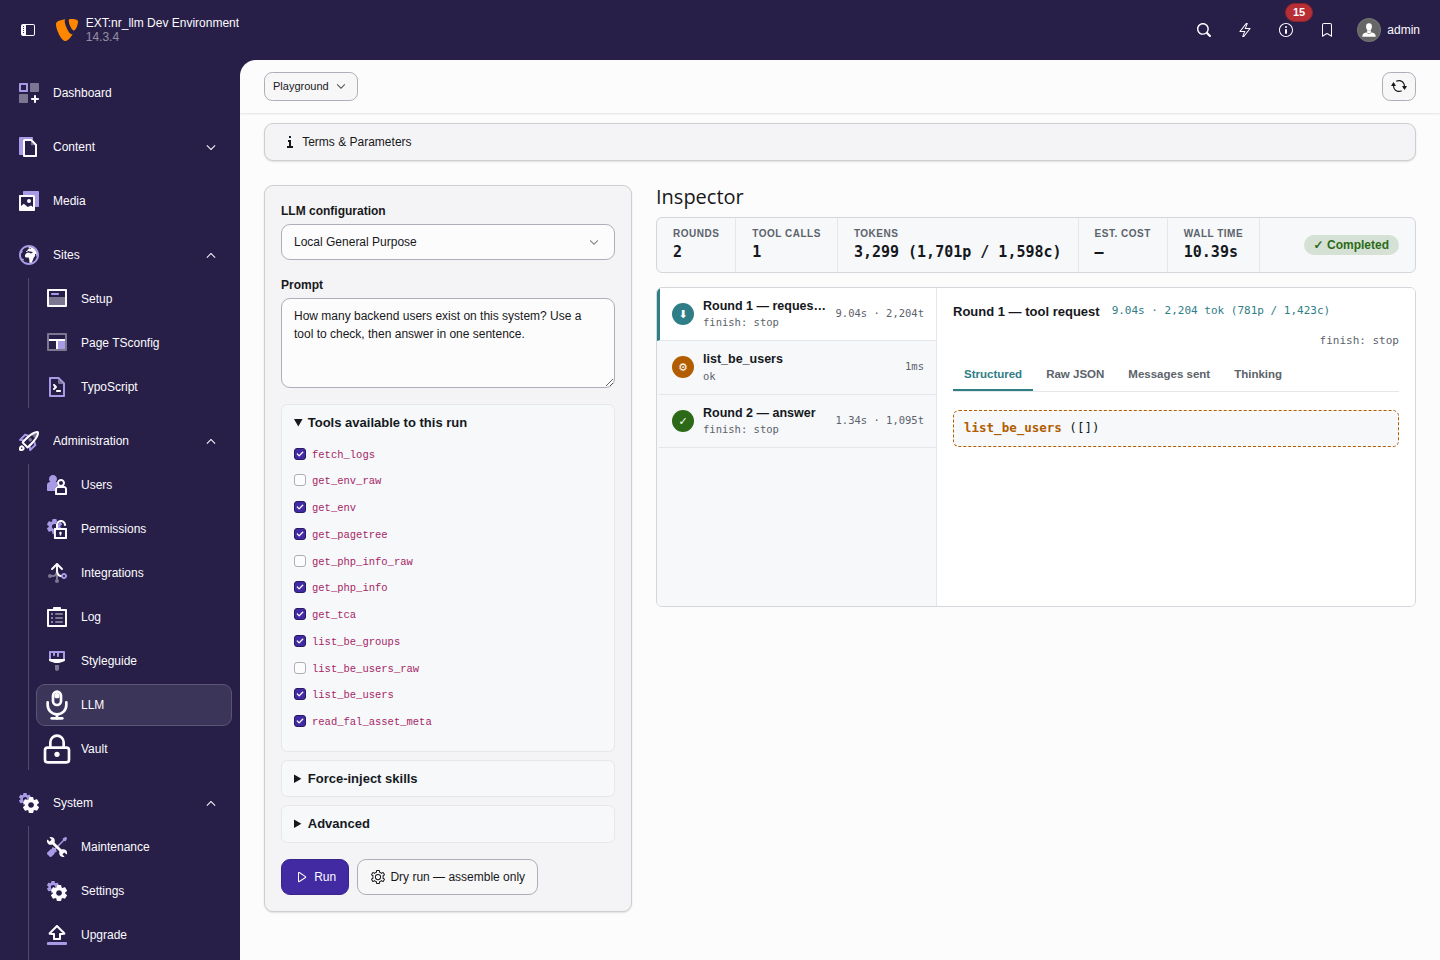
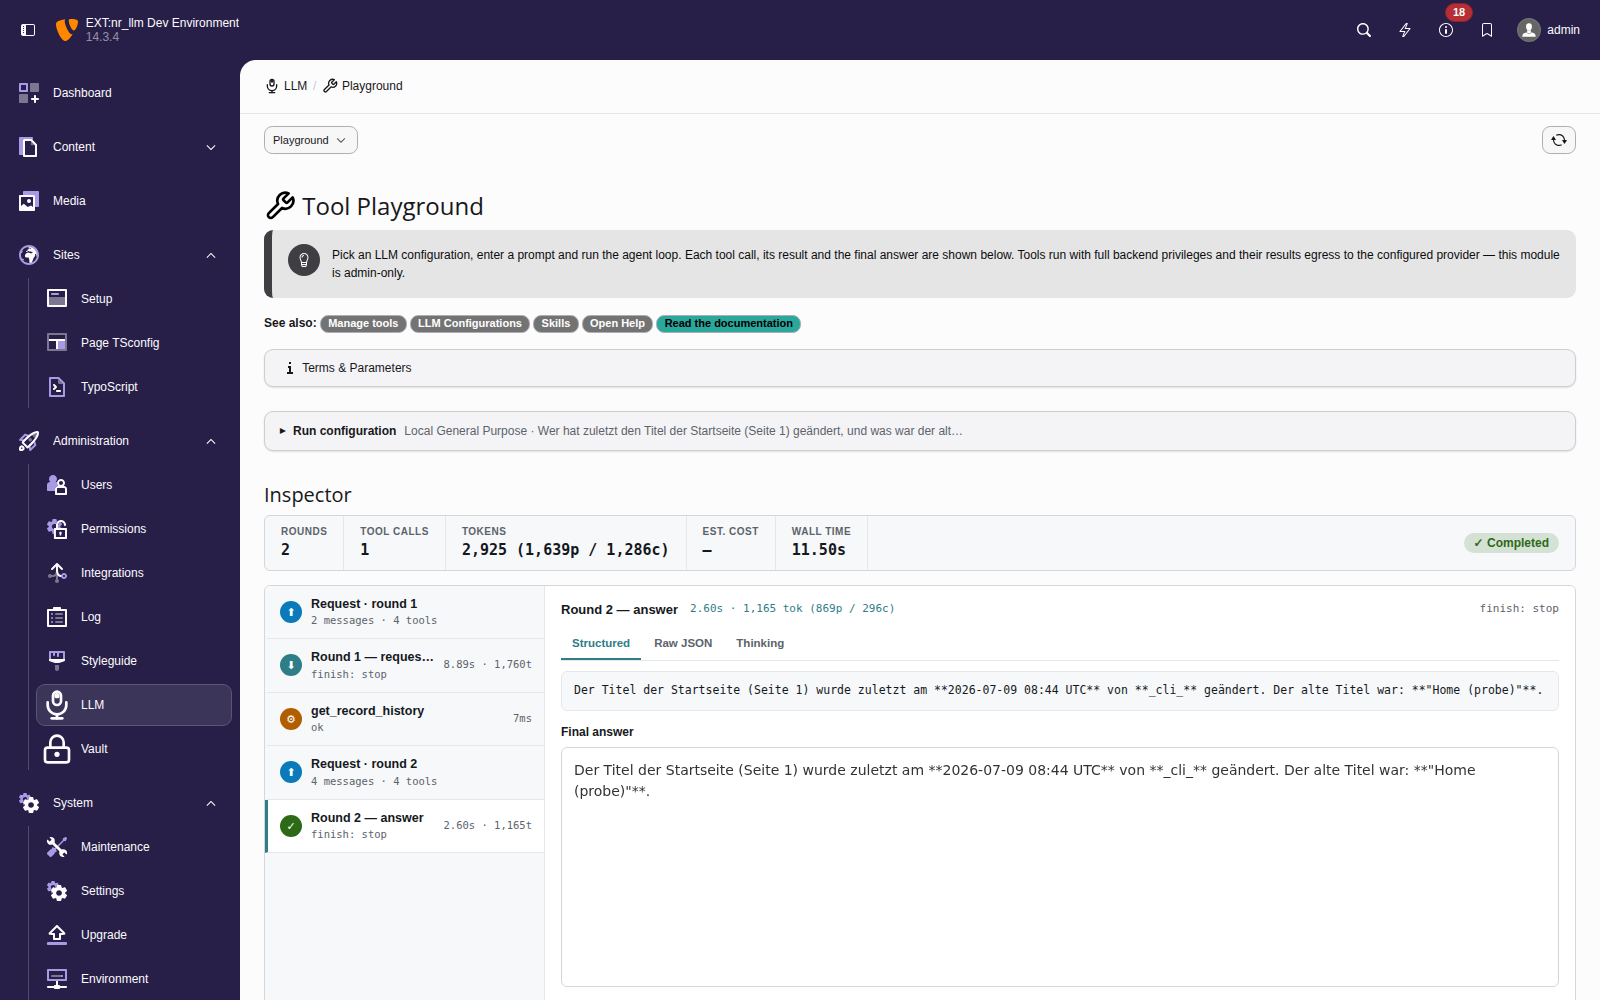
docs(readme): overview and Playground screenshots, Skills/Tools bullets
- embed the redesigned LLM module overview under 'One dashboard for all
  AI' and a Playground run-inspector screenshot in a new subsection
- add Skills and Tools bullets to the admin feature list
- refresh backend-dashboard.png (now shows the 39-tool state) and both
  Playground images (pre-#320 layout and pre-#322 flat tool list were
  stale): shell shows the grouped tool checkboxes, run shows a live
  get_record_history call with the streamed inspector

diff --git a/README.md b/README.md
@@ -143,14 +143,24 @@ nr-llm solves this once for the entire TYPO3 ecosystem.
 
 The **Admin Tools > LLM** backend module gives you full control:
 
+![LLM module overview — 30-day usage and cost KPIs, a per-provider request breakdown with live reachability, and a card grid where every module shows its readiness state](Documentation/Images/backend-dashboard.png)
+
 - **Providers** — Register API connections (OpenAI, Anthropic, Gemini, Ollama, …)
 - **Models** — Define which models are available and their capabilities
 - **Configurations** — Create use-case presets (temperature, system prompts, token limits)
 - **Tasks** — Define reusable prompt templates for editors
 - **User Budgets** — Cap per-backend-user spending across every preset (requests / tokens / cost × daily / monthly). See the [Administration guide](Documentation/Administration/UserBudgets.rst).
 - **Analytics** — Estimated cost and usage trends with breakdowns per provider, model, and service, plus per-user consumption against monthly budgets. See the [Administration guide](Documentation/Administration/Analytics.rst).
+- **Skills** — Ingest `SKILL.md` instruction files from GitHub (SHA-pinned, admin-reviewed) and attach them to tasks and configurations. See the [Administration guide](Documentation/Administration/Skills.rst).
+- **Tools** — 39 built-in read-only function-calling tools in 7 toggleable groups: content search and record history ("who changed this?"), TCA/TypoScript introspection and validation, error analysis (last exception, source read/search, URL probe), FAL file tools, and system diagnostics. See the [Administration guide](Documentation/Administration/Tools.rst).
 
 ![LLM Usage Analytics dashboard — KPI tiles, a cost and request trend chart, breakdowns by provider, model, and service, and a per-user table with monthly budget bars](Documentation/Images/backend-analytics.png)
+
+### Tool Playground — a glass box for agent runs
+
+The admin-only Playground runs the bounded agent loop against any configuration and streams the whole nr_llm ↔ LLM dialog live: every request (messages + tools offered), every response (structured, raw JSON, extracted thinking), every tool execution with arguments, result and duration — plus a dry-run mode that shows the exact prompt without calling the model.
+
+![Tool Playground run inspector — summary strip with rounds, tool calls, tokens and wall time; the step list shows the request, the model's tool call, the get_record_history execution and the final answer](Documentation/Images/ToolPlaygroundRun.png)
 
 ### Resilience
 